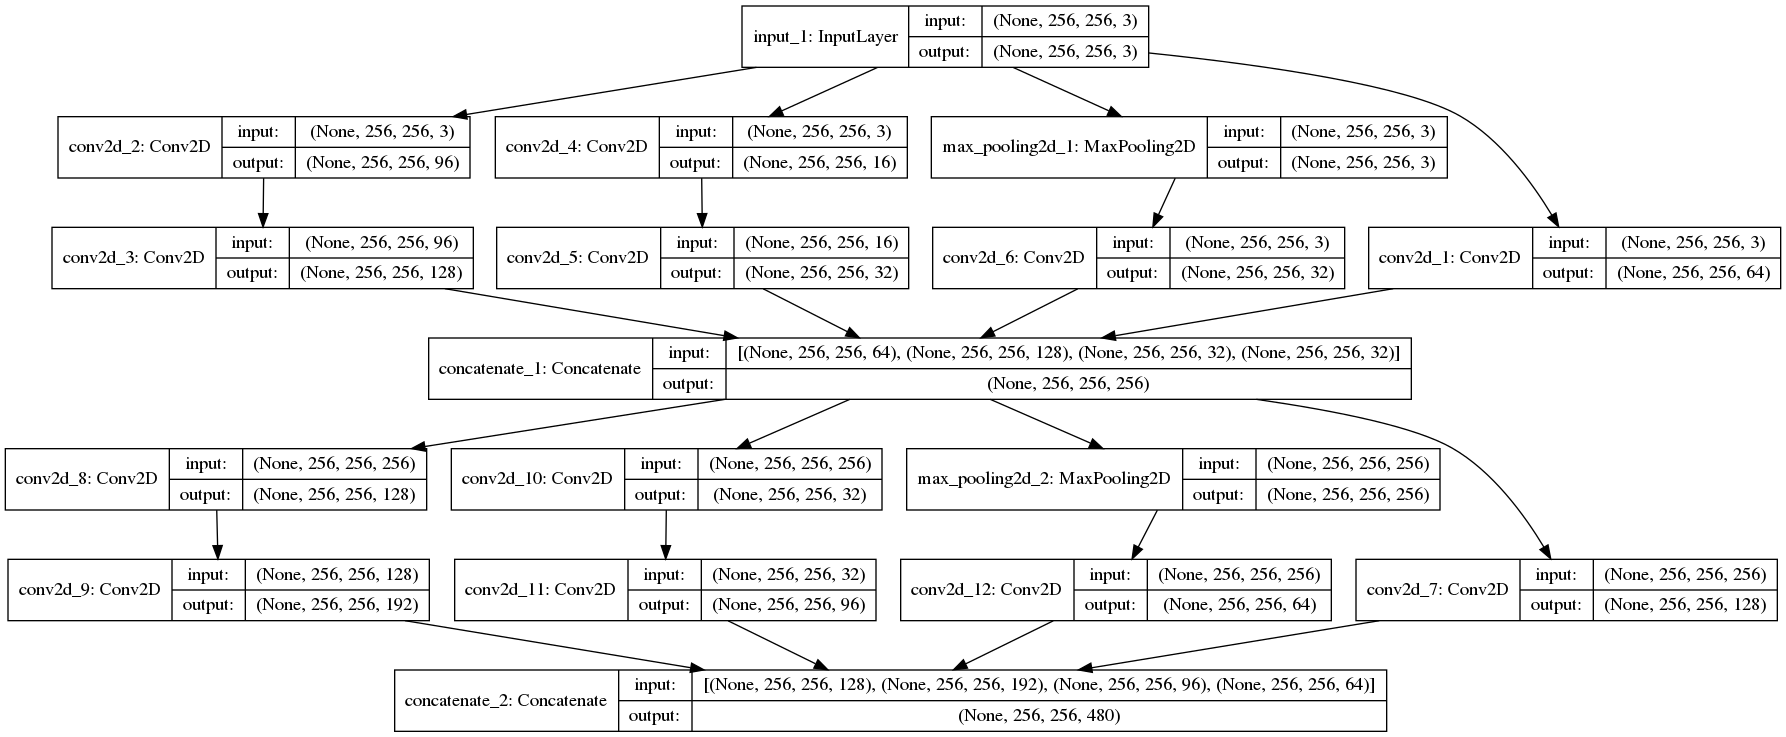
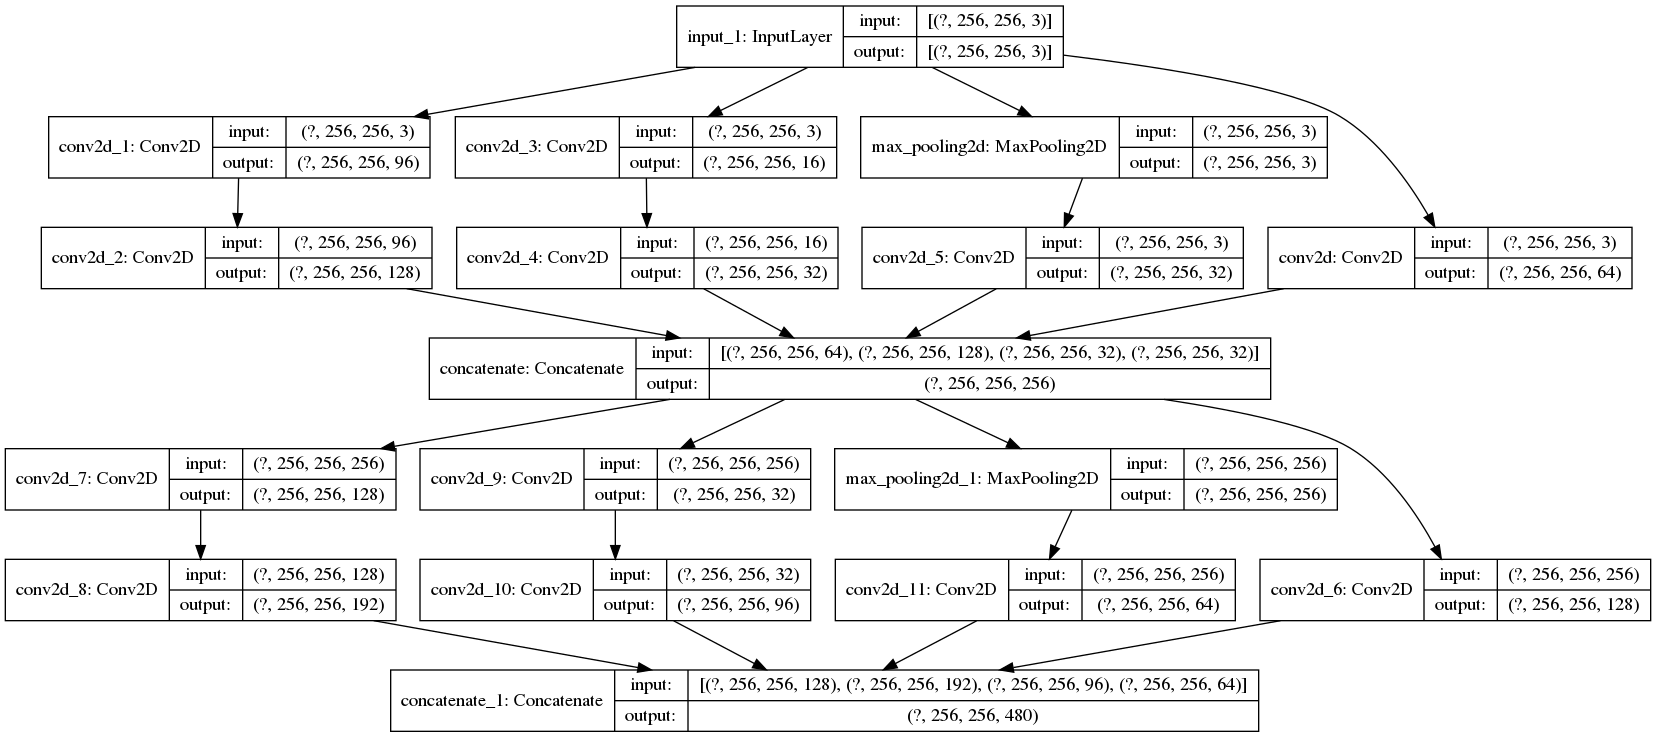
Update model arch to use tf 2.0

diff --git a/chapter17_model_arch/model_blocks.py b/chapter17_model_arch/model_blocks.py
@@ -1,0 +1,62 @@
+from tensorflow.keras.layers import Conv2D
+from tensorflow.keras.layers import MaxPooling2D
+from tensorflow.keras.layers import concatenate
+
+def vgg_block(layer_in, num_filters, num_conv):
+	"""
+	Creates a VGG block parameterized by number of filters
+	and number of layers
+	"""
+
+	for _ in range(num_conv):
+		layer_in = Conv2D(num_filters, (3,3), padding="same", activation="relu")(layer_in)
+
+	layer_in = MaxPooling2D((2,2), strides=(2,2))(layer_in)
+	return layer_in
+
+
+def inception_module(layer_in, f1, f2, f3):
+	"""
+	Block of parallel conv layers with different filter sizes
+	(1x1, 3x3, 5x5), followed by a maxpooling layer of (3,3)
+	and concatenate the results
+
+	f1 - Number of filters for 1x1 conv layer
+	f2 - Number of filters for 3x3 conv layer
+	f3 - Number of filters for 5x5 conv layer
+	"""
+
+	conv1 = Conv2D(f1, (1,1), padding="same", activation="relu")(layer_in)
+
+	conv2 = Conv2D(f2, (3,3), padding="same", activation="relu")(layer_in)
+
+	conv3 = Conv2D(f3, (5,5), padding="same", activation="relu")(layer_in)
+
+	pool = MaxPooling2D((3,3), strides=(1,1), padding="same")(layer_in)
+
+	layer_out = concatenate([conv1, conv2, conv3, pool], axis=-1)
+
+	return layer_out
+
+def optimized_inception_module(layer_in, f1, f2_in, f2_out, f3_in, f3_out, f4_out):
+	"""
+	Optimized version of inception module which uses 1x1 conv layers before 3x3 and 5x5 layers
+	"""
+
+	conv1 = Conv2D(f1, (1,1), padding="same", activation="relu")(layer_in)
+
+	conv3 = Conv2D(f2_in, (1,1), padding="same", activation="relu")(layer_in)
+	conv3 = Conv2D(f2_out, (3,3), padding="same", activation="relu")(conv3)
+
+	conv5 = Conv2D(f3_in, (1,1), padding="same", activation="relu")(layer_in)
+	conv5 = Conv2D(f3_out, (5,5), padding="same", activation="relu")(conv5)
+
+	pool = MaxPooling2D((3,3), strides=(1,1), padding="same")(layer_in)
+	pool = Conv2D(f4_out, (1,1), padding="same", activation="relu")(pool)
+
+	layer_out = concatenate([conv1, conv3, conv5, pool], axis=-1)
+
+	return layer_out
+
+def residual_module():
+	pass

diff --git a/chapter17_model_arch/vgg_complex.py b/chapter17_model_arch/vgg_complex.py
@@ -1,0 +1,24 @@
+# Example of using multiple VGG blocks where the nos of filters increase with depth of model
+
+from tensorflow.keras.models import Model
+from tensorflow.keras.layers import Input
+from tensorflow.keras.utils import plot_model
+from model_blocks import vgg_block
+
+
+input = Input(shape=(256, 256, 3))
+
+# Create 2 conv layers with 64 filters
+layer = vgg_block(input, 64, 2)
+
+# Create 2 conv layers with 128 filters
+layer = vgg_block(layer, 128, 2)
+
+# Create 4 conv layers with 256 filters
+layer = vgg_block(layer, 256, 4)
+
+model = Model(inputs=input, outputs=layer)
+
+model.summary()
+
+plot_model(model, show_shapes=True, to_file="artifacts/vgg_complex.png")

diff --git a/chapter17_model_arch/inception_complex.py b/chapter17_model_arch/inception_complex.py
@@ -1,0 +1,18 @@
+from tensorflow.keras.models import Model
+from tensorflow.keras.layers import Input
+from tensorflow.keras.utils import plot_model
+from model_blocks import optimized_inception_module
+
+input = Input(shape=(256, 256, 3))
+
+# Add inception block
+layer = optimized_inception_module(input, 64, 96, 128, 16, 32, 32)
+
+# Add inception block
+layer = optimized_inception_module(layer, 128, 128, 192, 32, 96, 64)
+
+model = Model(inputs=input, outputs=layer)
+
+model.summary()
+
+plot_model(model, show_shapes=True, to_file="artifacts/multi_inception_model.png")

diff --git a/chapter17_model_arch/inception_simple.py b/chapter17_model_arch/inception_simple.py
@@ -1,0 +1,16 @@
+# Example of using a single Inception block
+
+from tensorflow.keras.models import Model
+from tensorflow.keras.layers import Input
+from tensorflow.keras.utils import plot_model
+from model_blocks import inception_module
+
+input = Input(shape=(256, 256, 3))
+
+layer = inception_module(input, 64, 128, 32)
+
+model = Model(inputs=input, outputs=layer)
+
+model.summary()
+
+plot_model(model, show_shapes=True, to_file="artifacts/simple_inception_model.png")

diff --git a/chapter17_model_arch/vgg_simple.py b/chapter17_model_arch/vgg_simple.py
@@ -1,0 +1,16 @@
+# Example implementing a single VGG block
+from tensorflow.keras.models import Model
+from tensorflow.keras.layers import Input
+from tensorflow.keras.utils import plot_model
+from model_blocks import vgg_block
+
+
+input = Input(shape=(256, 256, 3))
+
+layer = vgg_block(input, 64, 2)
+
+model = Model(inputs=input, outputs=layer)
+
+model.summary()
+
+plot_model(model, show_shapes=True, to_file="artifacts/vgg_simple.png")
